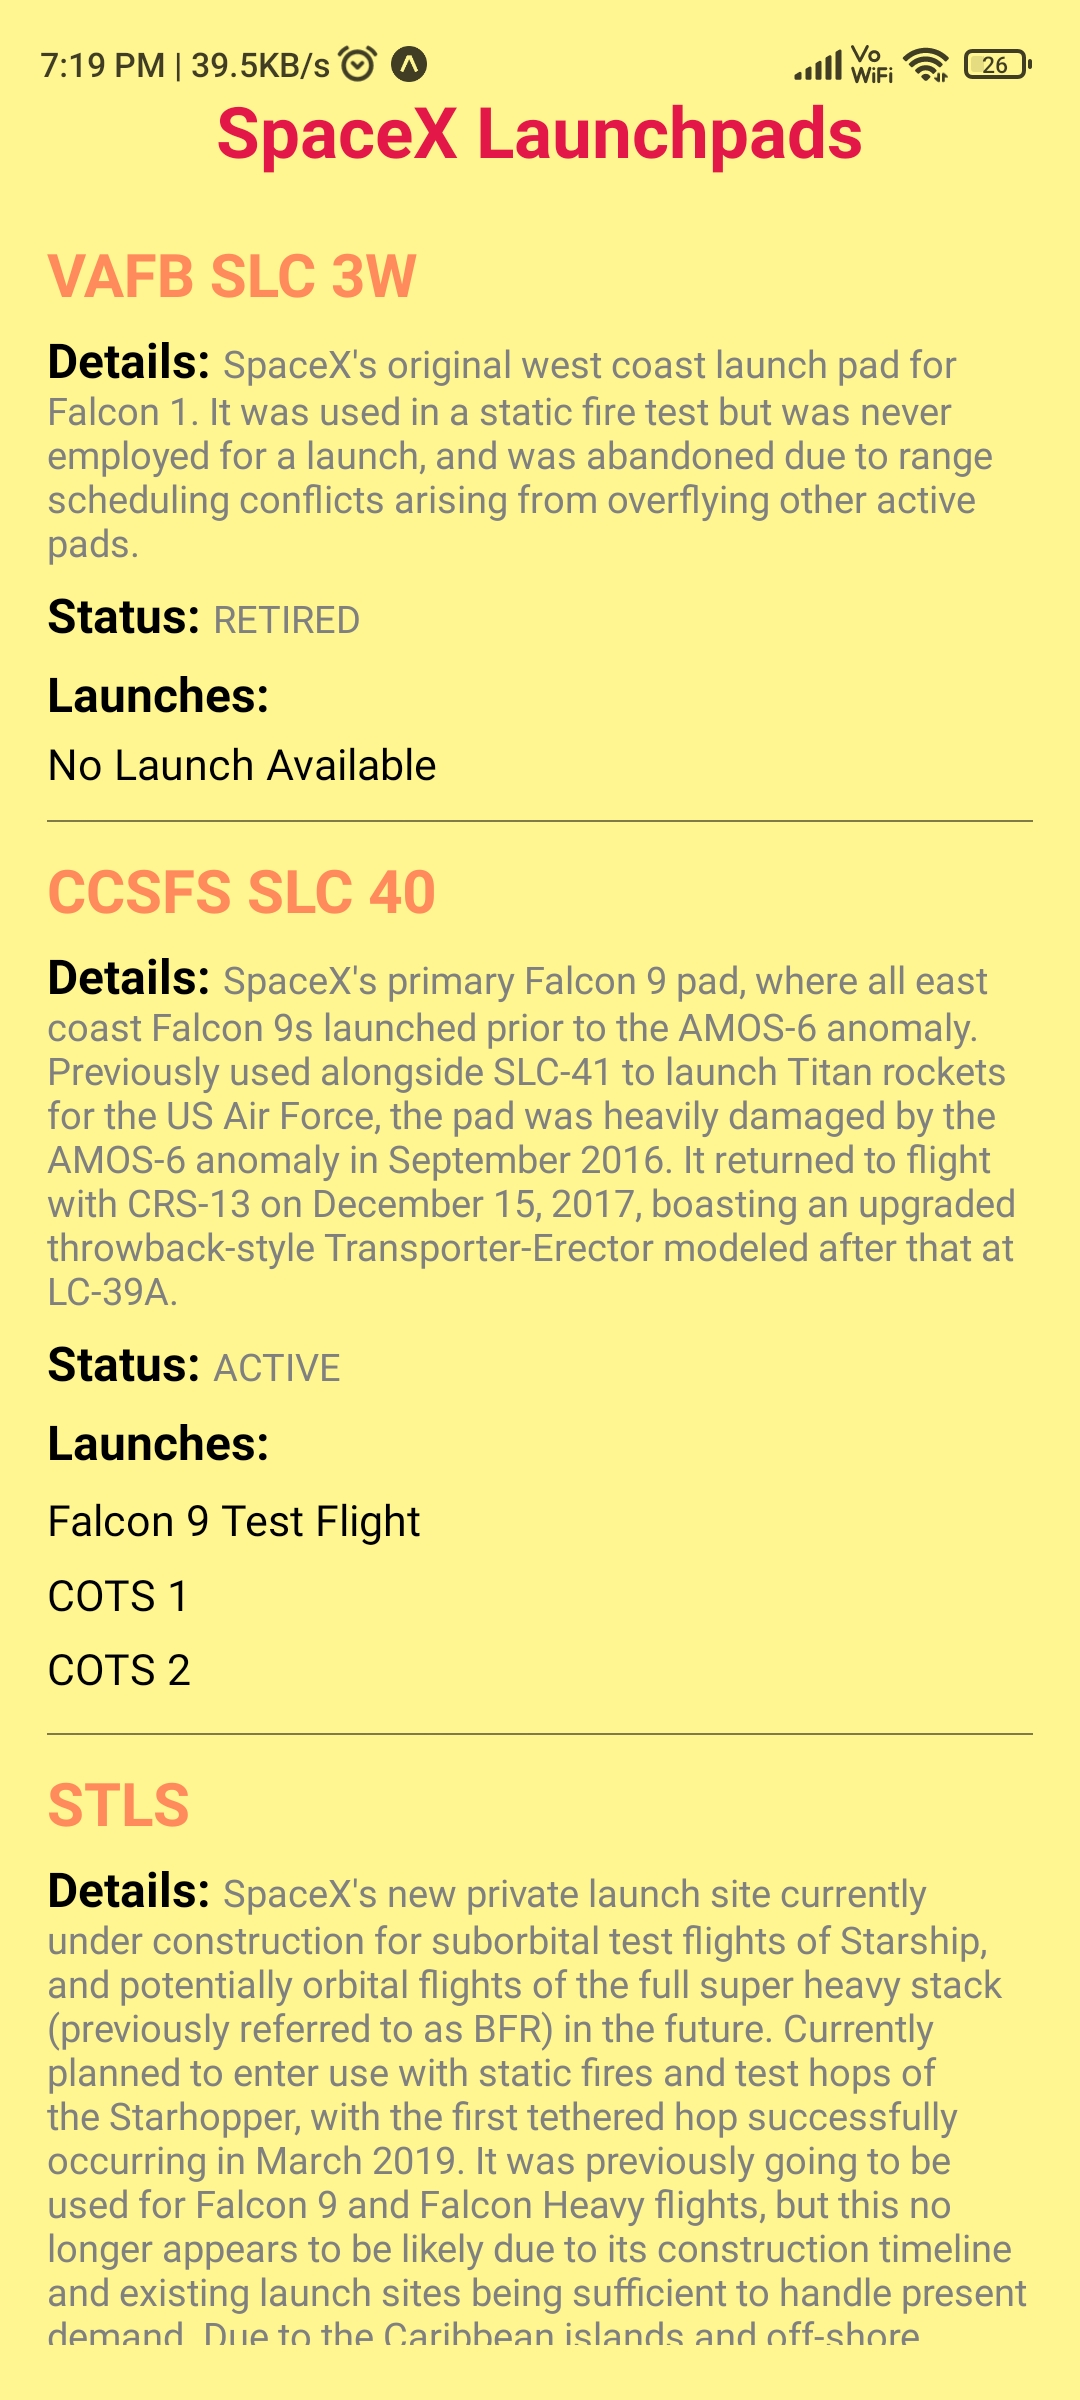
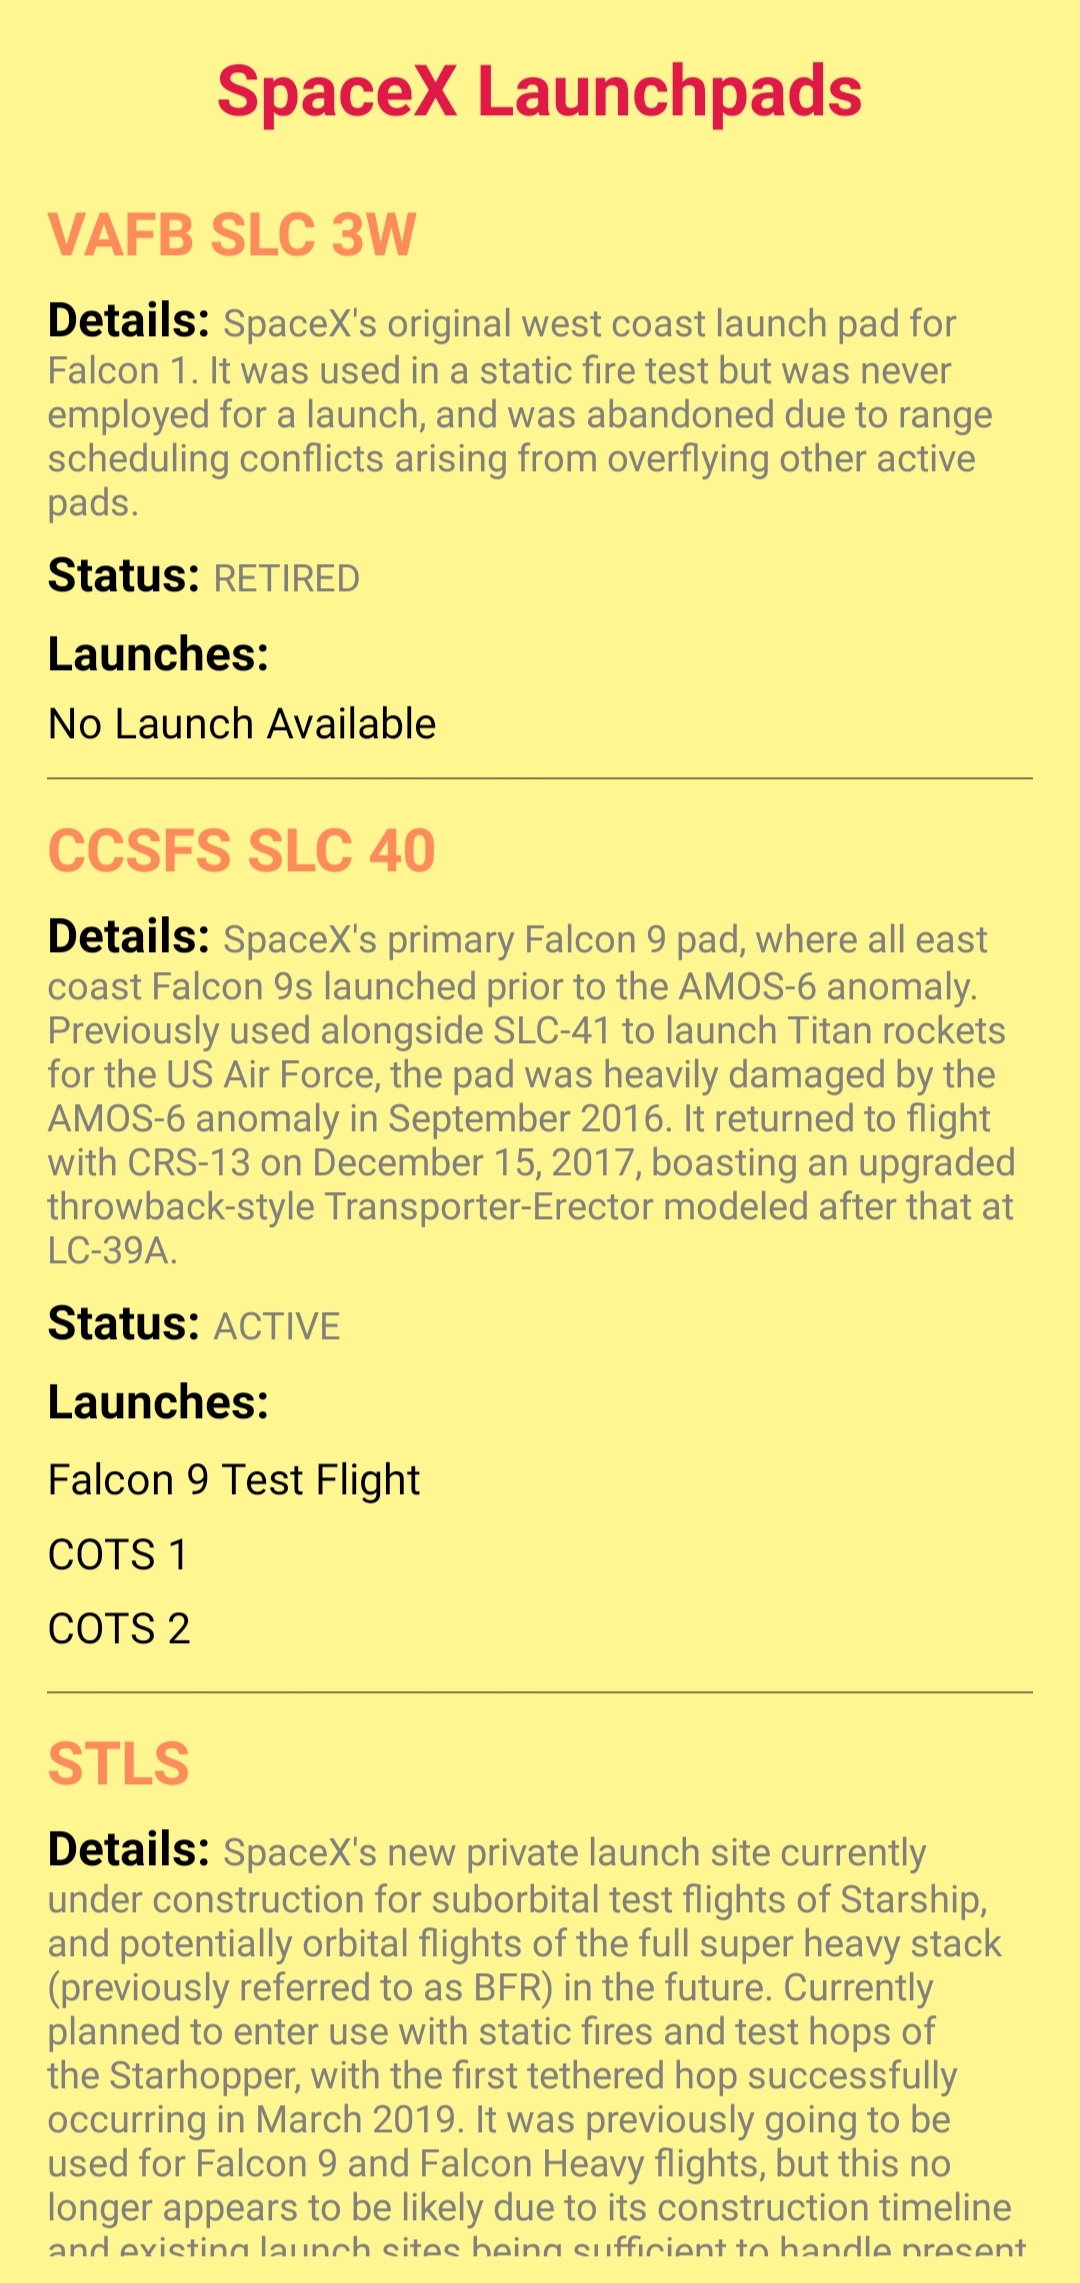
Added previews and build

Changed region(s): [[0.0306, 0.3732, 0.9472, 0.9952], [0.0306, 0.0, 0.9472, 0.3421], [0.0611, 0.0, 0.1528, 0.0311]]

diff --git a/src/styles.js b/src/styles.js
@@ -6,7 +6,7 @@ const styles = StyleSheet.create({
     backgroundColor: "#FFF591",
     alignItems: "flex-start",
     justifyContent: "center",
-    paddingVertical: 20,
+    paddingVertical: 10,
     paddingHorizontal: 17,
   },
 
